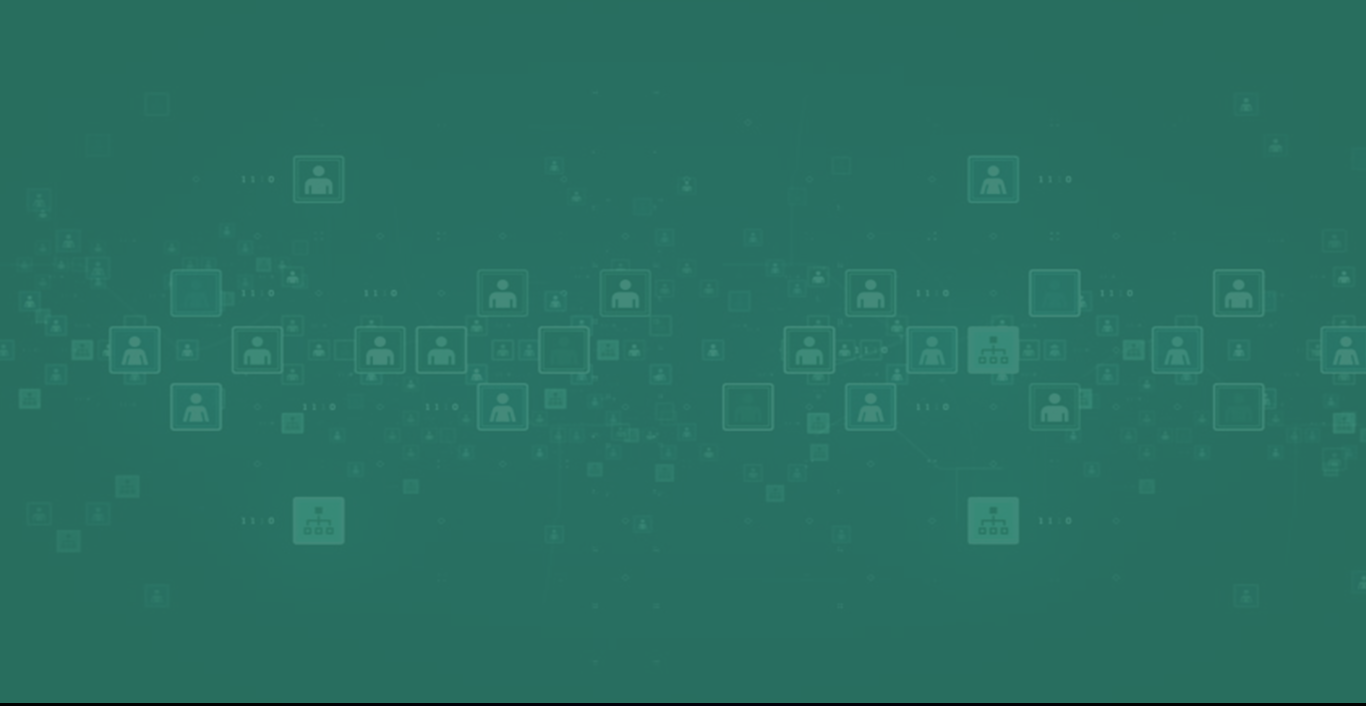
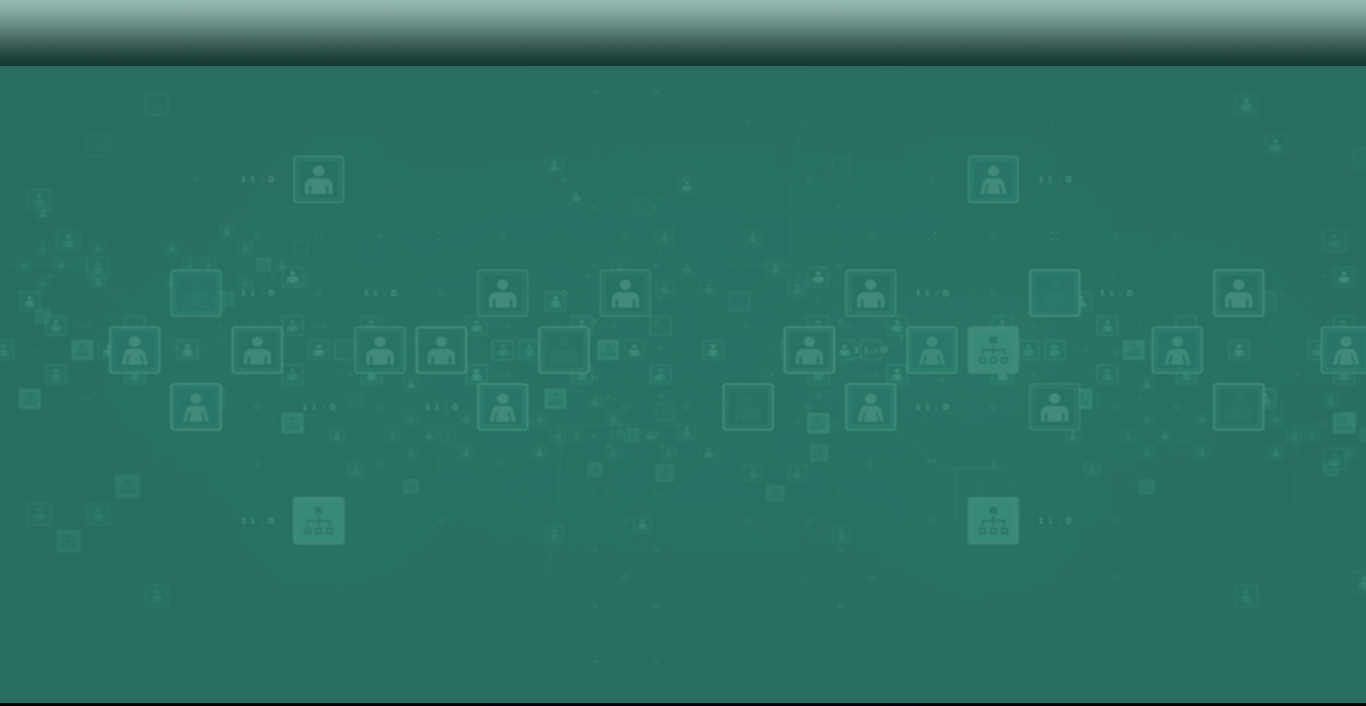
custome buttons

Changed region(s): [[0.0, 0.0, 1.0, 0.0935]]

diff --git a/PtrCma/FrmMDICma.Designer.cs b/PtrCma/FrmMDICma.Designer.cs
@@ -28,25 +28,80 @@
         /// </summary>
         private void InitializeComponent()
         {
+            this.lblCompanyName = new System.Windows.Forms.Label();
+            this.pictCloseBtn = new System.Windows.Forms.PictureBox();
+            this.pictMinBtn = new System.Windows.Forms.PictureBox();
+            ((System.ComponentModel.ISupportInitialize)(this.pictCloseBtn)).BeginInit();
+            ((System.ComponentModel.ISupportInitialize)(this.pictMinBtn)).BeginInit();
             this.SuspendLayout();
+            // 
+            // lblCompanyName
+            // 
+            this.lblCompanyName.BackColor = System.Drawing.Color.Transparent;
+            this.lblCompanyName.Location = new System.Drawing.Point(5, 8);
+            this.lblCompanyName.Name = "lblCompanyName";
+            this.lblCompanyName.Size = new System.Drawing.Size(410, 66);
+            this.lblCompanyName.TabIndex = 1;
+            this.lblCompanyName.Text = " ";
+            this.lblCompanyName.TextAlign = System.Drawing.ContentAlignment.MiddleCenter;
+            // 
+            // pictCloseBtn
+            // 
+            this.pictCloseBtn.BackColor = System.Drawing.Color.Transparent;
+            this.pictCloseBtn.BackgroundImage = global::PtrCma.Properties.Resources.lblBack;
+            this.pictCloseBtn.BackgroundImageLayout = System.Windows.Forms.ImageLayout.Center;
+            this.pictCloseBtn.Image = global::PtrCma.Properties.Resources.close;
+            this.pictCloseBtn.InitialImage = global::PtrCma.Properties.Resources.mini1;
+            this.pictCloseBtn.Location = new System.Drawing.Point(224, 98);
+            this.pictCloseBtn.Name = "pictCloseBtn";
+            this.pictCloseBtn.Size = new System.Drawing.Size(66, 66);
+            this.pictCloseBtn.SizeMode = System.Windows.Forms.PictureBoxSizeMode.CenterImage;
+            this.pictCloseBtn.TabIndex = 3;
+            this.pictCloseBtn.TabStop = false;
+            this.pictCloseBtn.Click += new System.EventHandler(this.pictCloseBtn_Click);
+            // 
+            // pictMinBtn
+            // 
+            this.pictMinBtn.BackColor = System.Drawing.Color.Transparent;
+            this.pictMinBtn.BackgroundImage = global::PtrCma.Properties.Resources.lblBack;
+            this.pictMinBtn.BackgroundImageLayout = System.Windows.Forms.ImageLayout.Center;
+            this.pictMinBtn.Image = global::PtrCma.Properties.Resources.mini;
+            this.pictMinBtn.InitialImage = global::PtrCma.Properties.Resources.mini1;
+            this.pictMinBtn.Location = new System.Drawing.Point(49, 116);
+            this.pictMinBtn.Name = "pictMinBtn";
+            this.pictMinBtn.Size = new System.Drawing.Size(66, 66);
+            this.pictMinBtn.SizeMode = System.Windows.Forms.PictureBoxSizeMode.CenterImage;
+            this.pictMinBtn.TabIndex = 2;
+            this.pictMinBtn.TabStop = false;
+            this.pictMinBtn.Click += new System.EventHandler(this.pictMinBtn_Click);
             // 
             // FrmMDICma
             // 
             this.AutoScaleDimensions = new System.Drawing.SizeF(6F, 13F);
             this.AutoScaleMode = System.Windows.Forms.AutoScaleMode.Font;
             this.BackColor = System.Drawing.Color.LightSeaGreen;
-            this.ClientSize = new System.Drawing.Size(284, 262);
+            this.ClientSize = new System.Drawing.Size(514, 262);
+            this.Controls.Add(this.pictCloseBtn);
+            this.Controls.Add(this.pictMinBtn);
+            this.Controls.Add(this.lblCompanyName);
+            this.FormBorderStyle = System.Windows.Forms.FormBorderStyle.None;
             this.IsMdiContainer = true;
             this.MaximizeBox = false;
             this.Name = "FrmMDICma";
             this.Text = "Form1";
             this.WindowState = System.Windows.Forms.FormWindowState.Maximized;
             this.Load += new System.EventHandler(this.FrmMDICma_Load);
+            ((System.ComponentModel.ISupportInitialize)(this.pictCloseBtn)).EndInit();
+            ((System.ComponentModel.ISupportInitialize)(this.pictMinBtn)).EndInit();
             this.ResumeLayout(false);
 
         }
 
         #endregion
+
+        private System.Windows.Forms.Label lblCompanyName;
+        private System.Windows.Forms.PictureBox pictMinBtn;
+        private System.Windows.Forms.PictureBox pictCloseBtn;
     }
 }
 

diff --git a/PtrCma/Properties/Resources.Designer.cs b/PtrCma/Properties/Resources.Designer.cs
@@ -8,10 +8,10 @@
 // </auto-generated>
 //------------------------------------------------------------------------------
 
-namespace PtrCma.Properties
-{
-
-
+namespace PtrCma.Properties {
+    using System;
+    
+    
     /// <summary>
     ///   A strongly-typed resource class, for looking up localized strings, etc.
     /// </summary>
@@ -22,49 +22,81 @@ namespace PtrCma.Properties
     [global::System.CodeDom.Compiler.GeneratedCodeAttribute("System.Resources.Tools.StronglyTypedResourceBuilder", "4.0.0.0")]
     [global::System.Diagnostics.DebuggerNonUserCodeAttribute()]
     [global::System.Runtime.CompilerServices.CompilerGeneratedAttribute()]
-    internal class Resources
-    {
-
+    internal class Resources {
+        
         private static global::System.Resources.ResourceManager resourceMan;
-
+        
         private static global::System.Globalization.CultureInfo resourceCulture;
-
+        
         [global::System.Diagnostics.CodeAnalysis.SuppressMessageAttribute("Microsoft.Performance", "CA1811:AvoidUncalledPrivateCode")]
-        internal Resources()
-        {
+        internal Resources() {
         }
-
+        
         /// <summary>
         ///   Returns the cached ResourceManager instance used by this class.
         /// </summary>
         [global::System.ComponentModel.EditorBrowsableAttribute(global::System.ComponentModel.EditorBrowsableState.Advanced)]
-        internal static global::System.Resources.ResourceManager ResourceManager
-        {
-            get
-            {
-                if ((resourceMan == null))
-                {
+        internal static global::System.Resources.ResourceManager ResourceManager {
+            get {
+                if (object.ReferenceEquals(resourceMan, null)) {
                     global::System.Resources.ResourceManager temp = new global::System.Resources.ResourceManager("PtrCma.Properties.Resources", typeof(Resources).Assembly);
                     resourceMan = temp;
                 }
                 return resourceMan;
             }
         }
-
+        
         /// <summary>
         ///   Overrides the current thread's CurrentUICulture property for all
         ///   resource lookups using this strongly typed resource class.
         /// </summary>
         [global::System.ComponentModel.EditorBrowsableAttribute(global::System.ComponentModel.EditorBrowsableState.Advanced)]
-        internal static global::System.Globalization.CultureInfo Culture
-        {
-            get
-            {
+        internal static global::System.Globalization.CultureInfo Culture {
+            get {
                 return resourceCulture;
             }
-            set
-            {
+            set {
                 resourceCulture = value;
+            }
+        }
+        
+        /// <summary>
+        ///   Looks up a localized resource of type System.Drawing.Bitmap.
+        /// </summary>
+        internal static System.Drawing.Bitmap close {
+            get {
+                object obj = ResourceManager.GetObject("close", resourceCulture);
+                return ((System.Drawing.Bitmap)(obj));
+            }
+        }
+        
+        /// <summary>
+        ///   Looks up a localized resource of type System.Drawing.Bitmap.
+        /// </summary>
+        internal static System.Drawing.Bitmap lblBack {
+            get {
+                object obj = ResourceManager.GetObject("lblBack", resourceCulture);
+                return ((System.Drawing.Bitmap)(obj));
+            }
+        }
+        
+        /// <summary>
+        ///   Looks up a localized resource of type System.Drawing.Bitmap.
+        /// </summary>
+        internal static System.Drawing.Bitmap mini {
+            get {
+                object obj = ResourceManager.GetObject("mini", resourceCulture);
+                return ((System.Drawing.Bitmap)(obj));
+            }
+        }
+        
+        /// <summary>
+        ///   Looks up a localized resource of type System.Drawing.Bitmap.
+        /// </summary>
+        internal static System.Drawing.Bitmap mini1 {
+            get {
+                object obj = ResourceManager.GetObject("mini1", resourceCulture);
+                return ((System.Drawing.Bitmap)(obj));
             }
         }
     }

diff --git a/PtrCma/FrmMDICma.cs b/PtrCma/FrmMDICma.cs
@@ -37,8 +37,7 @@ namespace PtrCma
                 }
 
             }
-            this.BackColor = Global.appBackColr;
-            //this.BackgroundImage = Global.startFrmBackImg;
+            Settings();
             frmParty = new FrmCMAParty();
             frmParty.MdiParent = this;
             frmParty.NotifyMainFormToCloseChildFormParty += NotifyMainFormToCloseFormParty;
@@ -53,21 +52,38 @@ namespace PtrCma
         }
         private void NotifyMainFormToOpenFormParty()
         {
-            //if (frmParty.IsDisposed) { 
-            //    frmParty = new FrmCMAParty();
-            //    frmParty.Show();
-            //}else
-            //{
-                frmParty.Show();
-           // }
-        
+           frmParty.Show();
            frmMain.Enabled = false;
-            
         }
         private void NotifyMainFormToCloseFormParty()
         {
             frmMain.Enabled = true;
             
+        }
+        public void Settings()
+        {
+            this.BackColor = Global.appBackColr;
+            this.BackgroundImage = Global.startFrmBackImg;
+            this.lblCompanyName.Text = "Perfect Tax Reporter - CMA 1.0";
+            this.lblCompanyName.Font = Global.lblCompNamefont;
+            this.lblCompanyName.Top = 5;
+            this.lblCompanyName.Left = 5;
+            this.lblCompanyName.ForeColor = Global.lblCompColr;
+            this.lblCompanyName.BackgroundImage = new Bitmap(Assembly.GetExecutingAssembly().GetManifestResourceStream("PtrCma.Resources.lblBack.png"));
+            this.pictMinBtn.Top = 5;
+            this.pictMinBtn.Left = this.Width - this.pictMinBtn.Width - this.pictCloseBtn.Width-5;
+            this.pictCloseBtn.Top = 5;
+            this.pictCloseBtn.Left = this.Width - this.pictCloseBtn.Width - 5;
+        }
+
+        private void pictMinBtn_Click(object sender, EventArgs e)
+        {
+            this.WindowState = FormWindowState.Minimized;
+        }
+
+        private void pictCloseBtn_Click(object sender, EventArgs e)
+        {
+            this.Close();
         }
     }
  

diff --git a/PtrCma/Global.cs b/PtrCma/Global.cs
@@ -13,7 +13,8 @@ namespace PtrCma
         //MDI Form
         public static string companyName = "Perfect Tax Reporter - CMA 1.0";
         public static Color appBackColr = System.Drawing.Color.LightSeaGreen;
-        
+        public static Font lblCompNamefont = new System.Drawing.Font("Arial Rounded Mt", 14F, System.Drawing.FontStyle.Bold, System.Drawing.GraphicsUnit.Point, ((byte)(0)));
+        public static Color lblCompColr = System.Drawing.Color.White;
         //MAIN form
         public static Bitmap startFrmBackImg = new Bitmap(Assembly.GetExecutingAssembly().GetManifestResourceStream("PtrCma.Resources.bg.png"));
         public static int cmdBtnWidthMain = 200;
